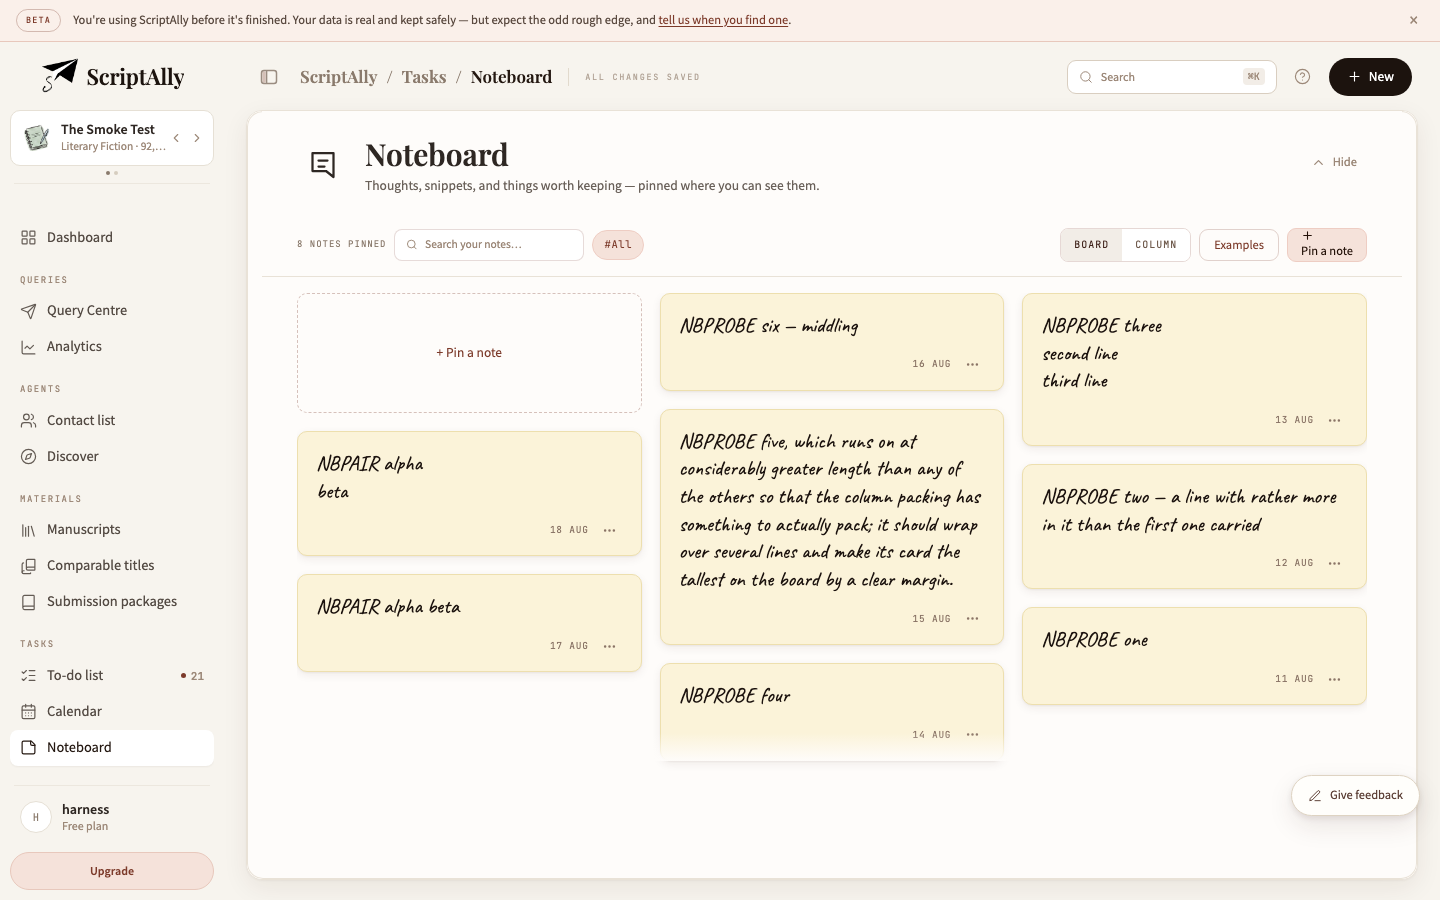
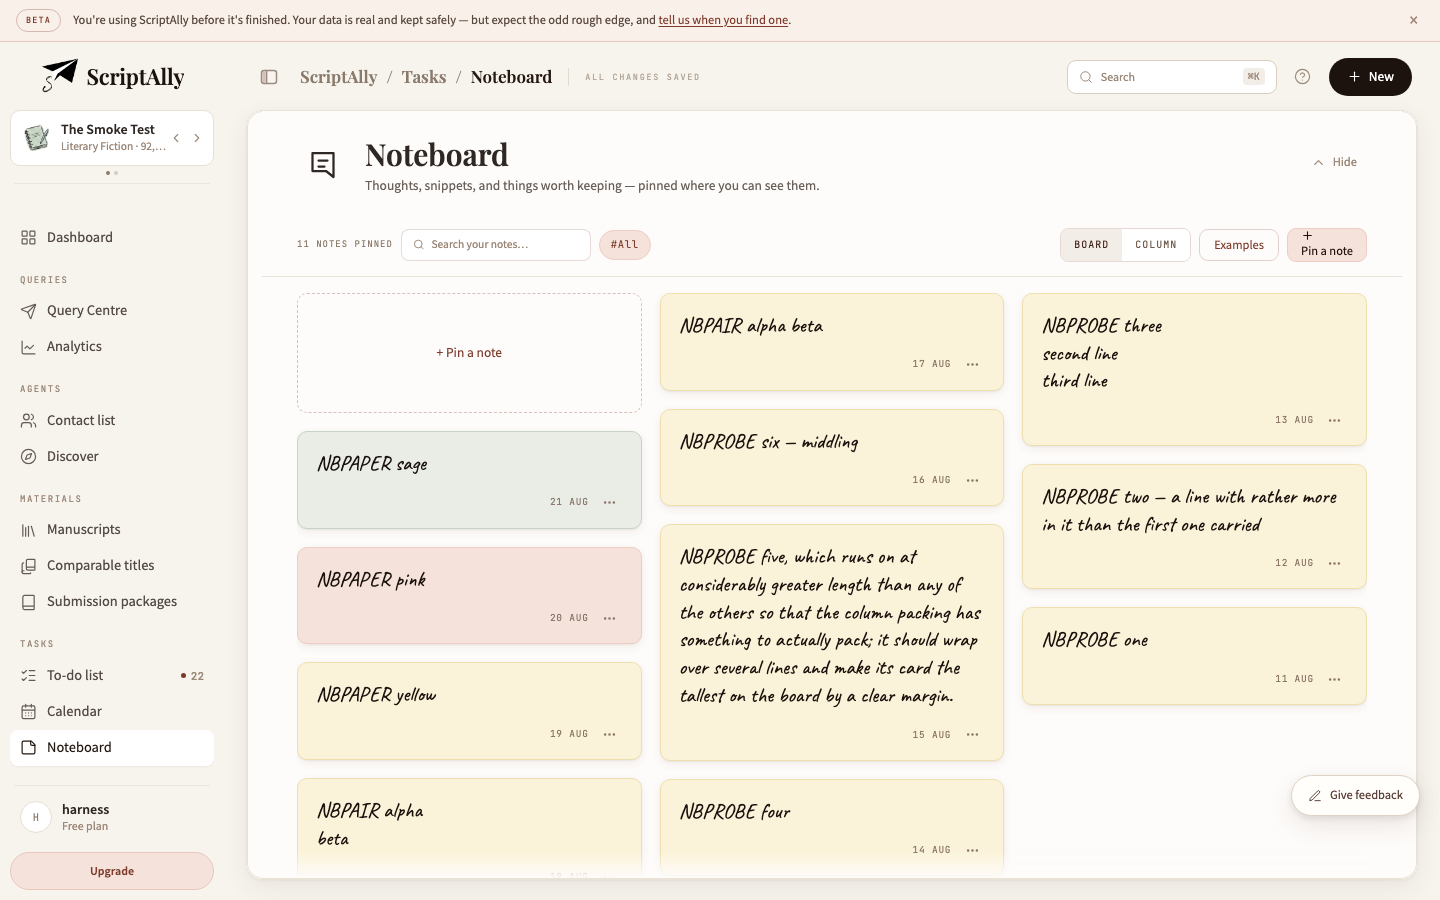
noteboard: dev deploy — colour is live, and the probe has a before as well as an after
Rules and hosting deployed as TWO separate acts; they have separate blast
radii and folding hosting into a rules deploy is forbidden.

rulesProbe.mjs gained a `colour` case and was run BEFORE the deploy, so
the change is evidenced in both directions rather than asserted after the
fact. Pre-deploy: plain note create ACCEPTED, colour "pink" DENIED —
exactly what the build report predicted. Post-deploy: "pink" ACCEPTED,
"chartreuse" DENIED, so the value is bounded rather than free text.
Nothing else in the ruleset moved (23 attempts, all as expected).

Both dev databases, because the success line never names one — it reads
"released rules firestore.rules to cloud.firestore" whichever database it
hit. Verified by release updateTime instead:

  cloud.firestore (default)      ab1a8c56 -> 1cb74970  10:03:45Z
  cloud.firestore/ai-studio-...  ab1a8c56 -> 27e75018  10:04:05Z

Every command named its project, because .firebaserc's `default` is
gen-lang-client-0801391782 — PROD. And firebase.json's hosting site is
scriptally-app, also prod, which is why the second rules command stays
--only firestore:rules.

Hosting: build output read in full and grepped rather than tailed (a
css-syntax-error prints near the TOP and exits 0), assert-build-target
confirmed the bundle names scriptally-dev with the prod id absent, 176
files to https://scriptally-dev.web.app.

noteboardLook gained the case that could not exist until now, and it ran
[…]

diff --git a/tests/e2e/noteboardLook.measure.ts b/tests/e2e/noteboardLook.measure.ts
@@ -143,6 +143,33 @@ test.describe("Noteboard — measured", () => {
     expect(new Set(bds).size, "the three borders are not three colours").toBe(3);
   });
 
+  test("⚠ a note WEARING a colour renders it — the half the rules deploy unlocked", async ({ page }) => {
+    /* ⚠ THIS COULD NOT BE MEASURED BEFORE 22 Aug. `colour` was in firestore.rules and not in the
+       deployed ruleset, so no seeded note could carry one and every note rendered yellow —
+       correctly. The cascade case above proved the three RULES resolve; this proves the DATA
+       reaches them, which is a different claim and the one that matters to a writer. */
+    await openRoute(page, ROUTE, WIDE);
+    const papers = await page.evaluate(() => {
+      const out: Record<string, { bg: string; bd: string; cls: string }> = {};
+      for (const el of Array.from(document.querySelectorAll<HTMLElement>(".nb-note"))) {
+        const t = (el.querySelector(".nb-body") as HTMLElement | null)?.innerText ?? "";
+        const m = /^NBPAPER (\w+)/.exec(t.trim());
+        if (!m) continue;
+        const cs = getComputedStyle(el);
+        out[m[1]] = { bg: cs.backgroundColor, bd: cs.borderTopColor, cls: el.className };
+      }
+      return out;
+    });
+    /* the population first — three cards, or the comparison below is between things that are not there */
+    expect(Object.keys(papers).sort(), "the three paper notes are not on the page").toEqual(["pink", "sage", "yellow"]);
+    for (const [name, v] of Object.entries(papers)) console.log(`[worn] ${name.padEnd(7)} ${v.bg} / ${v.bd}  ${v.cls}`);
+    /* each note carries the class its STORED colour asks for */
+    for (const name of ["yellow", "pink", "sage"]) expect(papers[name].cls).toContain(`nb-c-${name}`);
+    /* and the three render as three, not as three copies of the default */
+    expect(new Set(Object.values(papers).map((v) => v.bg)).size, "the three notes render one fill").toBe(3);
+    expect(new Set(Object.values(papers).map((v) => v.bd)).size).toBe(3);
+  });
+
   test("⚠ nothing on the board overlaps anything else — the negative-space check", async ({ page }) => {
     await openRoute(page, ROUTE, WIDE);
     /* ⚠ TEXT LEAVES ONLY. A parent's box contains its children's by construction and inline

diff --git a/reports/noteboard-build.md b/reports/noteboard-build.md
@@ -390,17 +390,9 @@ The other half needs one dev rules deploy.
 Nothing in the eight phases was skipped. Five things are narrower than the instructions asked, and
 each says why.
 
-1. **Note colour does not work until one dev rules deploy lands.** `firestore.rules` carries
-   `colour` in both `userTasks` allowlists and was **not deployed** (this run commits only). Until
-   it is, `setUserTaskColour` is denied, every note renders yellow, and the swatch reports the
-   failure rather than silently doing nothing. The composer's create never carries the field, so a
-   denial costs the colour and never the note. One command switches it on:
-   ```bash
-   firebase deploy --only firestore:rules --config firebase.dev.json --project scriptally-dev
-   ```
-   Per the house rule, verify by release `updateTime` under `--debug`, not by the success line —
-   and **wait before probing**, because rules take seconds to propagate and an impatient probe
-   reports a false denial.
+1. ~~**Note colour does not work until one dev rules deploy lands.**~~ **— DONE, 22 Aug.**
+   See section 7. Colour is live on dev: `pink` is accepted, `chartreuse` is refused, and three
+   notes wearing three stored colours render as three on the deployed site.
 
 2. **The band is not built** (1.6/1.7). The page keeps the shared pinned masthead; the band's three
    pieces are rehomed. Phase 1's specified probe — the band's fill reaching the frame's inner edges
@@ -529,3 +521,83 @@ asserted, and each edit states the reversal in place rather than loosening the a
 
 `e975dbda` (ref) → `8f11e1dd` P1 → `7028e944` P2 → `74f683c9` P3 → `b736ef85` P4 → `3429d7cd` P5 →
 `2887de0e` P6 → `776cdea8` P7 → `3531bc39` P8. Nothing pushed, nothing deployed.
+
+---
+
+## 7 — Dev deploy (22 Aug)
+
+Asked for after the build. **Rules and hosting were deployed as two separate acts** — they have
+separate blast radii, and the house rule forbids folding hosting into a rules deploy.
+
+### Pre-flight
+
+- `git fetch`; **0 behind** `origin/main`, 25 ahead. A behind-main deploy looks exactly like
+  another stream's feature having been reverted, which has cost a session before.
+- `src/` clean — the other session had committed its Query Centre work by then, so the bundle
+  carries only committed code.
+- `firestore.rules` grepped for what the deploy was meant to carry: the `isValidUserTask`
+  allowlist (:410), the value-shape clause (:427) and the **tasks** update `affectedKeys` (:752).
+  All three present. (:395 and :731 are the separate post-it `notes` store, untouched.)
+- **`rulesProbe.mjs` gained a `colour` case** and was run *before* the deploy, so the change has a
+  before as well as an after. Pre-deploy: a plain note create **ACCEPTED**, `colour: "pink"`
+  **DENIED** — exactly as the build report predicted.
+
+### Targets, named explicitly
+
+`.firebaserc`'s `default` is `gen-lang-client-0801391782` — **prod**. Every command therefore named
+its project. And `firebase.json`'s hosting site is `scriptally-app`, also prod, which is why the
+second rules command stays `--only firestore:rules`.
+
+Both dev databases were deployed, per the dual-DB trap:
+
+```bash
+firebase deploy --only firestore:rules --config firebase.dev.json --project scriptally-dev
+firebase deploy --only firestore:rules --project scriptally-dev
+```
+
+**Verified by release `updateTime`, never by the success line** — which reads "released rules
+firestore.rules to cloud.firestore" and names no database at all:
+
+| release | ruleset before → after | updateTime |
+|---|---|---|
+| `cloud.firestore` (default) | `ab1a8c56` → `1cb74970` | 2026-08-22T10:03:45Z |
+| `cloud.firestore/ai-studio-ae82196c…` | `ab1a8c56` → `27e75018` | 2026-08-22T10:04:05Z |
+
+### Hosting
+
+`npm run build:dev` — output read in full and grepped for `error|[WARNING]|css-syntax`, **not
+tailed**: clean, `✓ built in 11.75s`. `assert-build-target.mjs` confirmed *"bundle targets
+scriptally-dev (dev); gen-lang-client-0801391782 absent."*
+
+```bash
+firebase deploy --only hosting --config firebase.dev.json --project scriptally-dev
+```
+
+176 files → **https://scriptally-dev.web.app**
+
+### Verified after
+
+The build ran between the rules deploy and the probe, so propagation had minutes rather than
+seconds — an impatient probe reports a false denial, and that asymmetry looks exactly like a rule
+written wrong.
+
+- `rulesProbe.mjs`, full run: **23 attempts, every one as expected.** `colour: "pink"` flipped
+  DENIED → **ACCEPTED**; `colour: "chartreuse"` is **DENIED**, so the value is bounded rather than
+  free text. Nothing else moved.
+- `noteboardLook.measure.ts` against **`SA_E2E_BASE_URL=dev`** (the deployed site, not a local
+  preview): **9/9**, including the case that could not exist before —
+
+  > **⚠ a note WEARING a colour renders it.** Three notes with three stored colours:
+  > yellow `rgb(251,243,217)`, pink `rgb(245,226,218)`, sage `rgb(233,237,230)`, each carrying
+  > its own `nb-c-*` class, each border distinct. The cascade case proved the three RULES
+  > resolve; this proves the DATA reaches them, which is the claim that matters to a writer.
+
+  The seeder writes colour the way the app does — **plain create, then the colour as its own
+  update** — because a create carrying it would be denied whole on any database whose rules
+  predate the field.
+
+The eleven probe notes were deleted afterwards (`node tests/e2e/seedNotes.mjs --clean`).
+
+### Still Nick's
+
+**Prod rules are unchanged** and now one commit further behind dev's file. Nothing was pushed.
